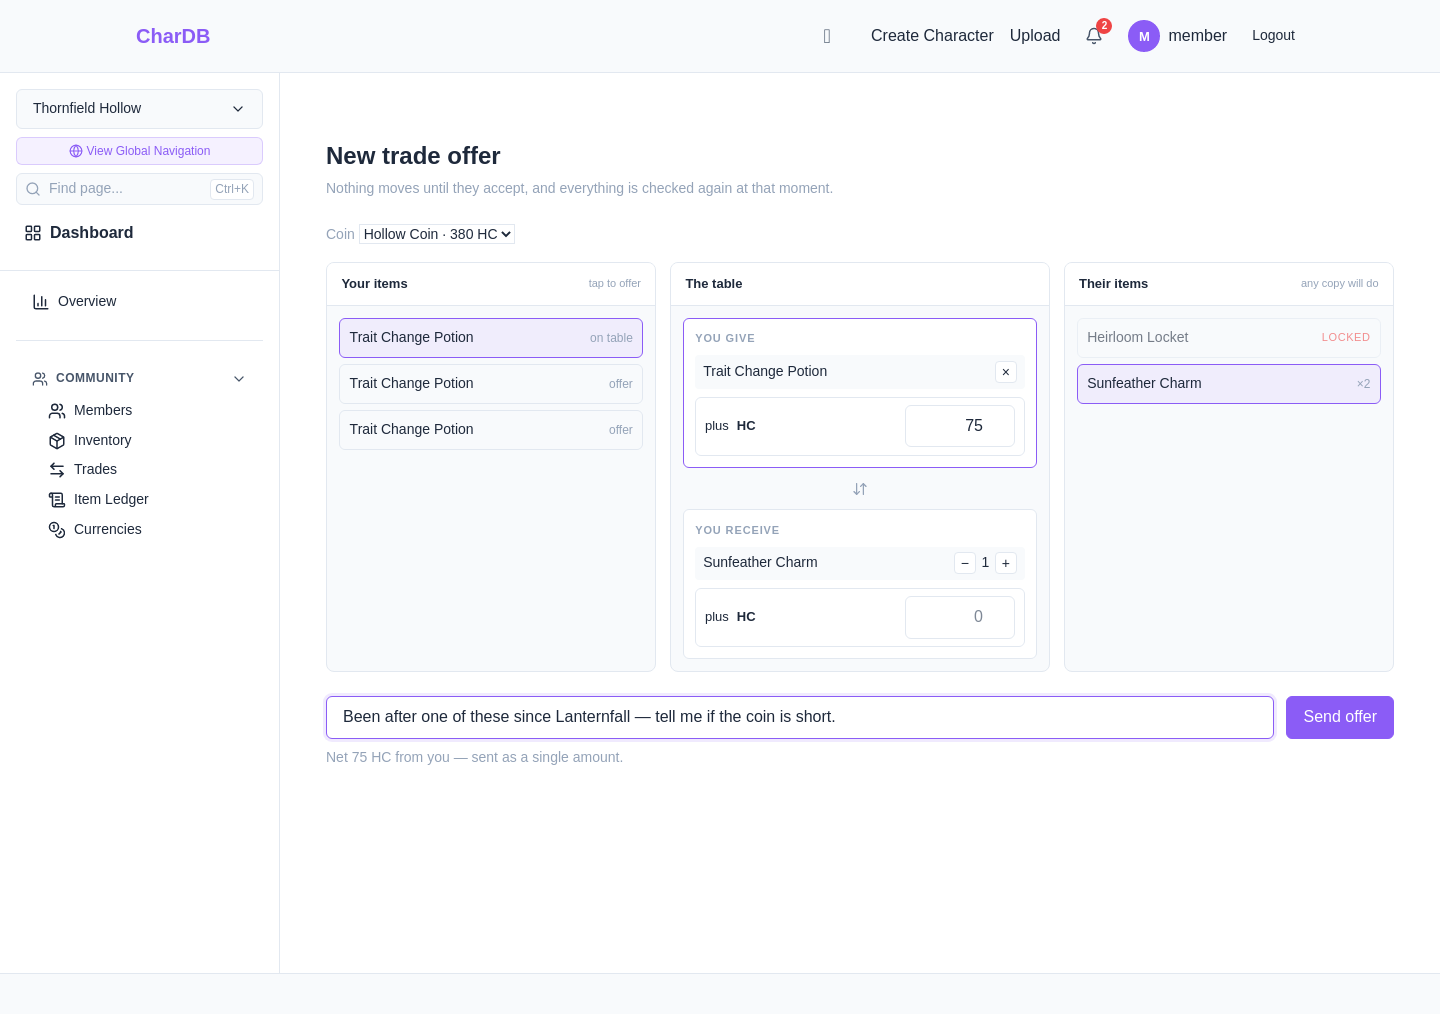
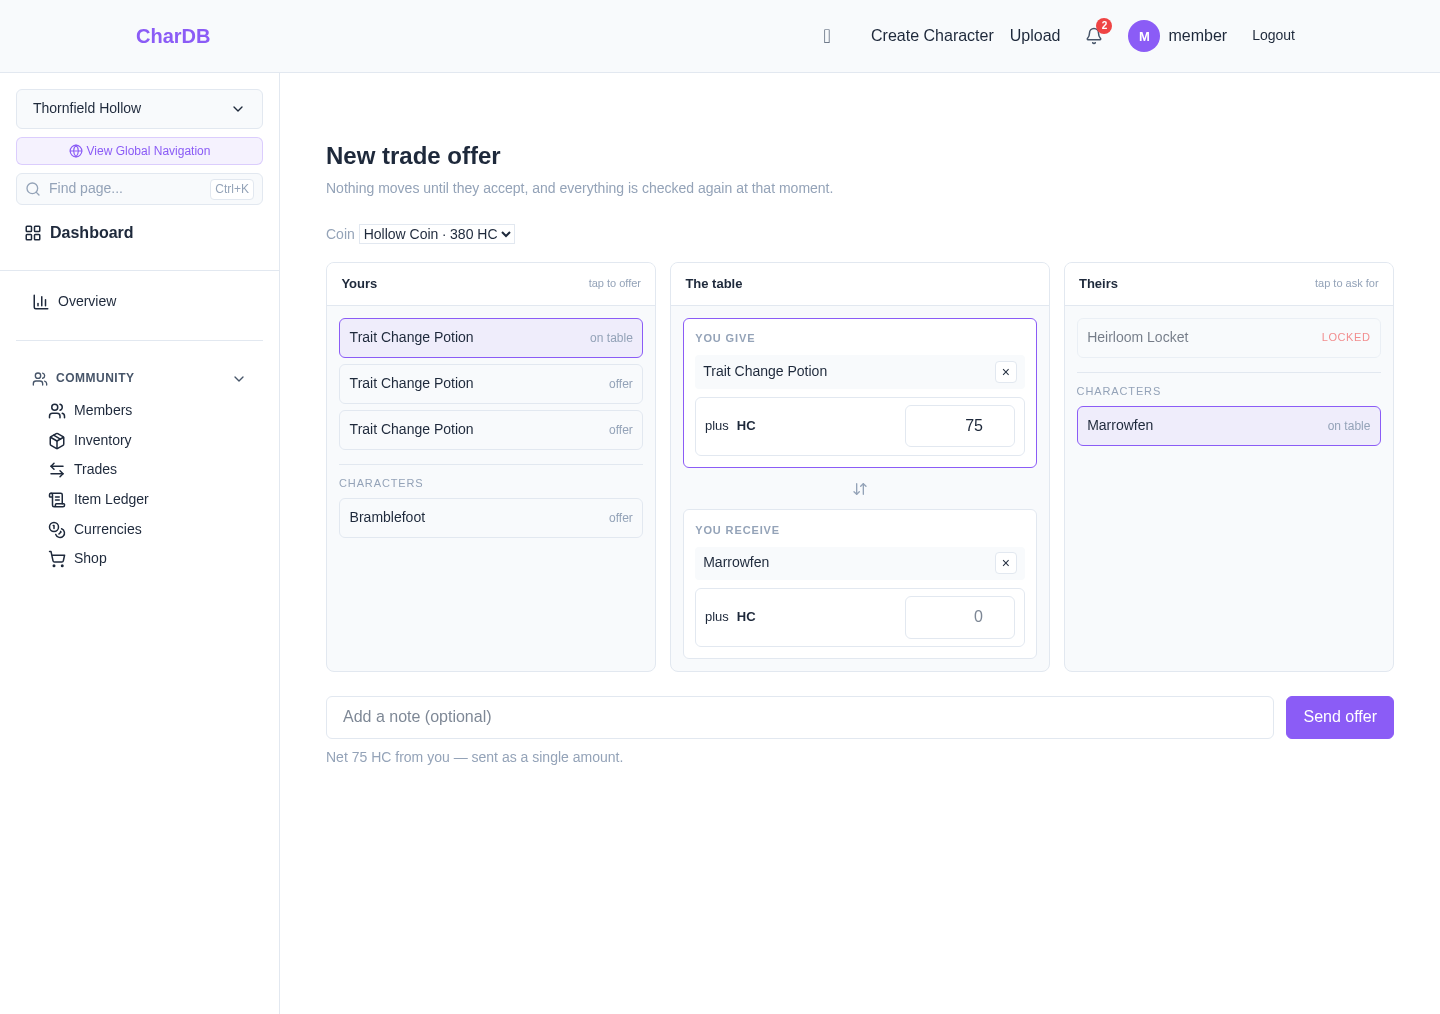
docs(trading): cover characters in the walkthrough
A new step 2 on opting in, and what the flag withholds until you do -- which
is the part worth a walkthrough. The mechanism is unremarkable; the rule that
a character its owner has not opened shows no trade affordance at all, rather
than a disabled one, is not.

Also records two things the code makes true but nothing said out loud: a trade
moves ownership and leaves the creator credit alone, and the Open to Trades
setting travels with the character, so its new owner should turn it off if
they would rather not be asked.

Screenshots taken by driving the seeded community-items world. The composer
one was retaken rather than reused -- its panes now carry characters and both
headings changed, so the old image described a screen that no longer exists.

Claude-Session: https://claude.ai/code/session_018NxGrkyN4AUSNc6YaczyMN

diff --git a/docs/docs/trading.html b/docs/docs/trading.html
@@ -243,13 +243,19 @@
         <div class="step-content">
           <p>
             A trade is an offer one member makes to another inside a community:
-            some of your items and some of your coin, for some of theirs. You
+            some of your items, characters and coin, for some of theirs. You
             build it, they answer it. Until they answer, nothing has happened.
           </p>
           <p>
-            Both sides of a trade can carry items, currency, or both, and either
-            side can be empty — a gift is just a trade that asks for nothing
-            back.
+            Both sides of a trade can carry items, characters, currency, or any
+            mix, and either side can be empty — a gift is just a trade that asks
+            for nothing back.
+          </p>
+          <p>
+            Characters are opt-in and off by default. A character only appears
+            on a table if its owner has opened it to trades, and that stays true
+            right up to the moment the offer settles. <a href="#characters">Step
+            2</a> covers it.
           </p>
 
           <div class="feature-list">
@@ -266,7 +272,7 @@
             <div class="feature-item">
               <div class="icon">🔁</div>
               <h4>Settle</h4>
-              <p>Items and coin move together, or not at all</p>
+              <p>Everything moves together, or nothing does</p>
             </div>
           </div>
 
@@ -298,10 +304,10 @@
         <div class="screenshot">
           <img
             src="trade-composer.png"
-            alt="The CharDB trade composer. Left pane lists three Trait Change Potions to offer, the middle shows one potion and 75 HC on the You give side against one Sunfeather Charm on the You receive side, and the right pane lists a locked Heirloom Locket and a Sunfeather Charm."
+            alt="The CharDB trade composer. The left pane lists three Trait Change Potions and, under a Characters heading, Bramblefoot. The middle shows one potion and 75 HC on the You give side against Marrowfen on the You receive side. The right pane lists a locked Heirloom Locket and, under Characters, Marrowfen marked on table."
           />
           <div class="screenshot-caption">
-            One potion and 75 coin, for one of their charms.
+            One potion and 75 coin, for one of their characters.
           </div>
         </div>
 
@@ -322,6 +328,12 @@
             listing thirty of them one by one when none can be picked.
           </p>
           <p>
+            Characters sit below the items in each pane, under their own
+            heading. They are separated because they behave differently, which
+            <a href="#characters">step 2</a> gets into — an item is a name and a
+            count, and a character is somebody with a page.
+          </p>
+          <p>
             Coin is a field on each side of the table rather than a line on it,
             because it is a price rather than a thing. Put an amount on both
             sides and only the difference is sent: 250 out and 100 back becomes
@@ -340,15 +352,109 @@
       </div>
 
       <!-- Step 2 -->
-      <div class="step">
+      <div class="step" id="characters">
         <div class="step-header">
           <div class="step-number">2</div>
+          <h2 class="step-title">Trading characters</h2>
+        </div>
+        <div class="step-content">
+          <p>
+            A character can go on the table like anything else, but only if its
+            owner has said so. <strong>Open to Trades is off by default</strong>
+            and it is the owner's switch, on the character's own edit page.
+          </p>
+          <div class="highlight-box">
+            <strong>The default is off for a reason.</strong> Owners get asked
+            about their characters whether or not they want to be, so the flag
+            is not a formality — it is the answer, given once, in advance. A
+            character that has not been opened to trades therefore offers
+            <em>no</em> trade affordance at all: not a greyed-out button, not a
+            "trades are off" tooltip, nothing. Both of those are still an
+            invitation to ask, which is the thing the switch exists to stop.
+          </div>
+        </div>
+        <div class="screenshot">
+          <img
+            src="trade-character-button.png"
+            alt="Marrowfen's character page, owned by othermember, showing an Open to Trades badge and a Trading Information card containing Available for Sale: No, Open to Trades: Yes, and a Propose a Trade button."
+          />
+          <div class="screenshot-caption">
+            A character open to trades, seen by someone who is not its owner.
+          </div>
+        </div>
+        <div class="step-content">
+          <p>
+            The button is the way in. It opens the composer already pointed at
+            the owner, with the character on the side you are asking for —
+            because arriving here from someone else's character page means you
+            want it. Fill in your half and send.
+          </p>
+        </div>
+        <div class="screenshot">
+          <img
+            src="trade-character-composer.png"
+            alt="The trade composer opened from Marrowfen's page. Marrowfen is already on the You receive side, and Bramblefoot has been added to the You give side. Both appear highlighted and marked on table in their owners' panes."
+          />
+          <div class="screenshot-caption">
+            Marrowfen arrives already on the table. Bramblefoot goes back the
+            other way.
+          </div>
+        </div>
+        <div class="step-content">
+          <p>
+            <strong>The panes only list characters that are already open.</strong>
+            A closed one is absent rather than locked — which is the opposite of
+            how an untradeable <em>item</em> is shown, and deliberately so. An
+            item type is locked by community staff, so leaving it visible
+            answers the question of where it went. A character is closed by its
+            own owner, and its absence is the switch doing exactly what they set
+            it to.
+          </p>
+          <p>
+            <strong>You cannot ask for any character of a type.</strong> Items
+            let you do that because copies of a type are interchangeable, and no
+            two characters are — there is one of each, and it is the one you
+            meant. So a character line names the character, which also means the
+            offer will fail at settlement if they part with them first. There is
+            no looser way to ask for a particular character.
+          </p>
+          <p>
+            The same rule against double-promising applies, and matters more
+            here: because there is only one of a character, every open offer
+            naming it is a bid on the same thing.
+          </p>
+        </div>
+        <div class="screenshot">
+          <img
+            src="trade-character-offer.png"
+            alt="A sent offer titled 'Your offer to othermember', awaiting an answer, showing Bramblefoot under You give and Marrowfen under You receive, both rendered as links."
+          />
+          <div class="screenshot-caption">
+            On the offer itself, characters are links. Items are not — deciding
+            whether to accept a character means looking at it.
+          </div>
+        </div>
+        <div class="step-content">
+          <p>
+            One thing the button does not do is check whether the other member
+            has joined this community. A trade needs both parties to be members
+            of it, and if they are not, the offer is refused when you send it
+            rather than hidden beforehand.
+          </p>
+        </div>
+      </div>
+
+      <!-- Step 3 -->
+      <div class="step">
+        <div class="step-header">
+          <div class="step-number">3</div>
           <h2 class="step-title">One item, one open offer</h2>
         </div>
         <div class="step-content">
           <p>
-            You cannot put the same item on the table in two open offers at once.
-            Try it and the offer is refused with the item named.
+            You cannot put the same item or character on the table in two open
+            offers at once. Try it and the offer is refused with the thing
+            named.
           </p>
         </div>
         <div class="screenshot">
@@ -370,9 +476,14 @@
             problem in front of the only person who can do anything about it.
           </div>
           <p>
-            This applies to <em>your</em> specific items. Asking two different
-            people for one of their charms is fine, because you are asking for a
-            type rather than a copy, and either of them can still fill it.
+            This applies to <em>your</em> specific items and characters. Asking
+            two different people for one of their charms is fine, because you
+            are asking for a type rather than a copy, and either of them can
+            still fill it. Asking two people for their characters is fine for
+            the same reason — those are two different characters. Several people
+            bidding for one character is fine too: only the first accept can
+            land, and that is the market working rather than a conflict to
+            prevent.
           </p>
           <p>
             <strong>Coin works the same way.</strong> What you can put on the
@@ -384,10 +495,10 @@
         </div>
       </div>
 
-      <!-- Step 3 -->
+      <!-- Step 4 -->
       <div class="step">
         <div class="step-header">
-          <div class="step-number">3</div>
+          <div class="step-number">4</div>
           <h2 class="step-title">Your trades</h2>
         </div>
         <div class="step-content">
@@ -417,10 +528,10 @@
         </div>
       </div>
 
-      <!-- Step 4 -->
+      <!-- Step 5 -->
       <div class="step">
         <div class="step-header">
-          <div class="step-number">4</div>
+          <div class="step-number">5</div>
           <h2 class="step-title">Answering one</h2>
         </div>
         <div class="step-content">
@@ -489,10 +600,10 @@
         </div>
       </div>
 
-      <!-- Step 5 -->
+      <!-- Step 6 -->
       <div class="step">
         <div class="step-header">
-          <div class="step-number">5</div>
+          <div class="step-number">6</div>
           <h2 class="step-title">Countering</h2>
         </div>
         <div class="step-content">
@@ -531,16 +642,17 @@
         </div>
       </div>
 
-      <!-- Step 6 -->
+      <!-- Step 7 -->
       <div class="step">
         <div class="step-header">
-          <div class="step-number">6</div>
+          <div class="step-number">7</div>
           <h2 class="step-title">Settlement</h2>
         </div>
         <div class="step-content">
           <p>
-            Accepting moves everything at once: every item on both sides and the
-            coin, in a single step that either completes or does nothing.
+            Accepting moves everything at once: every item and character on both
+            sides and the coin, in a single step that either completes or does
+            nothing.
           </p>
         </div>
         <div class="screenshot">
@@ -558,8 +670,9 @@
             checked again at this moment rather than trusted from when the offer
             was written: that both of you still hold what you promised, that the
             payer can cover the coin, that the item types are still tradeable,
-            and that the offer has not expired. If any of that has changed, the
-            trade fails and says which part — and nothing moves.
+            that every character on the table is still open to trades, and that
+            the offer has not expired. If any of that has changed, the trade
+            fails and says which part — and nothing moves.
           </p>
           <div class="highlight-box">
             <strong>An offer that fails at accept is not a bug.</strong> It is
@@ -567,13 +680,40 @@
             names the line that no longer holds. The alternative — settling
             anyway — would move items their owner had already promised elsewhere.
           </div>
+          <p>
+            The character check is the one that matters most, because it is
+            about consent rather than availability. An owner can close a
+            character to trades at any point while an offer for it is standing,
+            and that is exactly when they would. What settlement honours is the
+            answer now, not the answer that was true when somebody wrote the
+            offer.
+          </p>
+        </div>
+        <div class="screenshot">
+          <img
+            src="trade-character-settled.png"
+            alt="Marrowfen's character page after the trade settled. The owner panel now reads member, with a smaller line underneath reading Created by othermember, and the Trading Information card no longer offers a Propose a Trade button."
+          />
+          <div class="screenshot-caption">
+            Marrowfen, now owned by the other member. Note what did not move:
+            the creator credit.
+          </div>
+        </div>
+        <div class="step-content">
+          <p>
+            <strong>A trade moves ownership and nothing else.</strong> The
+            character's creator credit, its gallery, its comments and its
+            history all stay attached to the character. Its Open to Trades
+            setting stays on too, so its new owner should turn it off if they do
+            not want to be asked.
+          </p>
         </div>
       </div>
 
-      <!-- Step 7 -->
+      <!-- Step 8 -->
       <div class="step">
         <div class="step-header">
-          <div class="step-number">7</div>
+          <div class="step-number">8</div>
           <h2 class="step-title">What it leaves behind</h2>
         </div>
         <div class="step-content">
@@ -604,9 +744,18 @@
         </div>
         <div class="step-content">
           <p>
-            Both legs of one settlement share an identifier, so the item movement
-            and the coin movement can be recognised as parts of the same event
-            rather than two things that happened to occur together.
+            A character that changed hands is recorded too, on the character's
+            own ownership history rather than in either community ledger — an
+            ownership change belongs to the character, and follows it if it
+            later leaves the community. That record is not yet shown anywhere in
+            the interface; the character's owner panel is currently the visible
+            answer to who holds it.
+          </p>
+          <p>
+            Every leg of one settlement shares an identifier, so the item
+            movement, the coin movement and the character's change of hands can
+            be recognised as parts of the same event rather than three things
+            that happened to occur together.
           </p>
           <p>
             Declining, withdrawing and expiring write nothing to either ledger.

diff --git a/docs/index.html b/docs/index.html
@@ -320,7 +320,7 @@
           <div class="doc-icon">🔁</div>
           <div class="doc-content">
             <h3>Trading</h3>
-            <p>Walkthrough of member-to-member trading: building an offer of items and coin, why the two sides of the composer are not symmetrical, answering and countering one, what settlement re-checks, and the ledger lines it leaves behind.</p>
+            <p>Walkthrough of member-to-member trading: building an offer of items, characters and coin, why the two sides of the composer are not symmetrical, how a character's owner opts in and what that withholds until they do, answering and countering an offer, what settlement re-checks, and the ledger lines it leaves behind.</p>
           </div>
         </a>
         <a href="docs/shop.html" class="doc-card">

diff --git a/CHANGELOG.md b/CHANGELOG.md
@@ -7,6 +7,23 @@ and this project adheres to [Semantic Versioning](https://semver.org/spec/v2.0.0
 
 ## [Unreleased]
 
+### Added
+
+- **E2E: 8 character-trading specs** in `apps/e2e/tests/trades`, most of them
+  about what a character its owner has not opted in offers: nothing, at every
+  surface (#302).
+
+- The `community-items` preset carries a species and three characters — one
+  open to trades on each side, and one closed — which is the asymmetry a
+  character-trade spec needs (#302).
+
+### Changed
+
+- **The trading walkthrough covers characters** (`docs/docs/trading.html`): a
+  new step on opting in and what the flag withholds until you do, with
+  screenshots taken against a seeded instance. The composer screenshot was
+  retaken, since its panes changed (#302).
+
 ## [v11.6.0] - 2026-08-31
 
 ### Added
